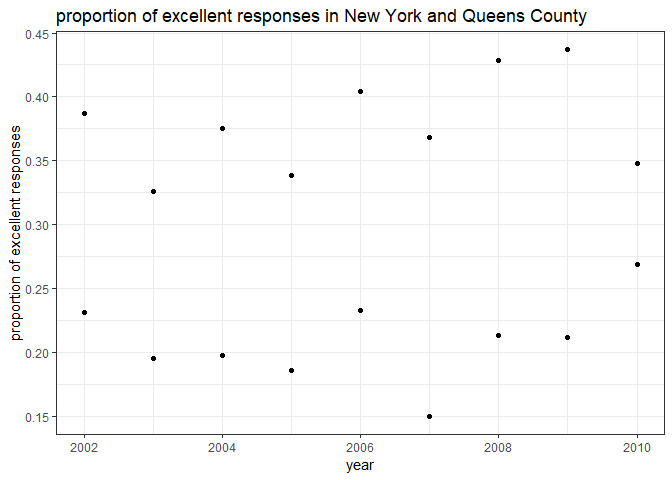
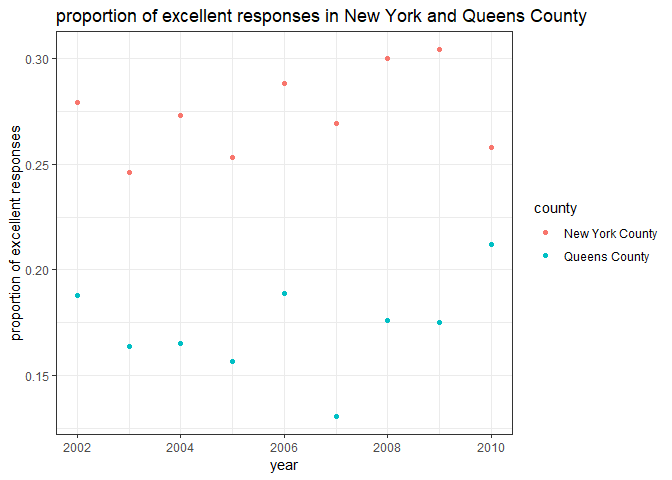
Minor edits

diff --git a/p8105_hw2_bhb2128.md b/p8105_hw2_bhb2128.md
@@ -1,4 +1,4 @@
-homework2
+Homework2
 ================
 Brennan Baker
 September 26, 2018
@@ -160,7 +160,7 @@ Making values for response (“Excellent” to “Poor”) into column names wit
 brfss = brfss %>% 
   spread(key = response, value = data_value) %>% 
   janitor::clean_names() %>% 
-  mutate(proportion_above_average = (excellent + very_good)/(fair + good + poor))
+  mutate(proportion_above_average = (excellent + very_good)/(fair + good + poor + excellent + very_good))
 ```
 
 Find the number of unique locations, if every state is represented, and the state that appears most.
@@ -194,9 +194,9 @@ brfss %>% filter(year == 2002) %>%
   ggplot(aes(x = excellent))+
   geom_histogram() +
   labs(
-    title = "Excellent Responses in 2002",
-    x = "Frequency",
-    y = "Response"
+    title = "excellent responses in 2002",
+    x = "frequency",
+    y = "response"
   ) + 
   theme_bw()
 ```
@@ -205,13 +205,13 @@ brfss %>% filter(year == 2002) %>%
 
 ![](p8105_hw2_bhb2128_files/figure-markdown_github/histogram%20of%20excellent%20in%202002-1.png)
 
-proportion of “Excellent” response values in New York County and Queens County (both in NY State) in each year from 2002 to 2010.
+Filter data and plot proportion of “excellent” response values in New York County and Queens County in each year from 2002 to 2010.
 
 ``` r
 brfss %>% 
   filter(county %in% c("New York County", "Queens County")) %>%
-  mutate(proportion_excellent = (excellent)/(very_good + fair + good + poor)) %>% 
-  ggplot(aes(x = year, y = proportion_excellent))+
+  mutate(proportion_excellent = (excellent)/(excellent + very_good + fair + good + poor)) %>% 
+  ggplot(aes(x = year, y = proportion_excellent, color = county))+
   geom_point() +
   labs(
     title = "proportion of excellent responses in New York and Queens County",
@@ -222,5 +222,3 @@ brfss %>%
 ```
 
 ![](p8105_hw2_bhb2128_files/figure-markdown_github/unnamed-chunk-1-1.png)
-
-How many unique locations are included in the dataset? Is every state represented? What state is observed the most? In 2002, what is the median of the “Excellent” response value? Make a histogram of “Excellent” response values in the year 2002. Make a scatterplot showing the proportion of “Excellent” response values in New York County and Queens County (both in NY State) in each year from 2002 to 2010.
